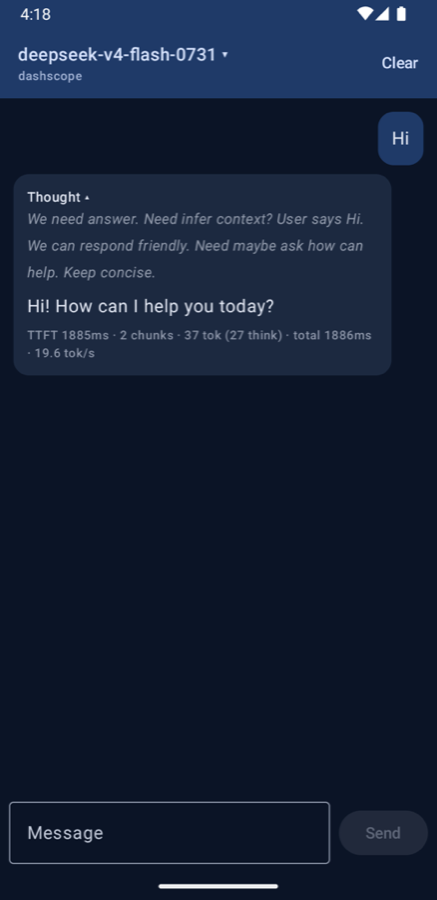
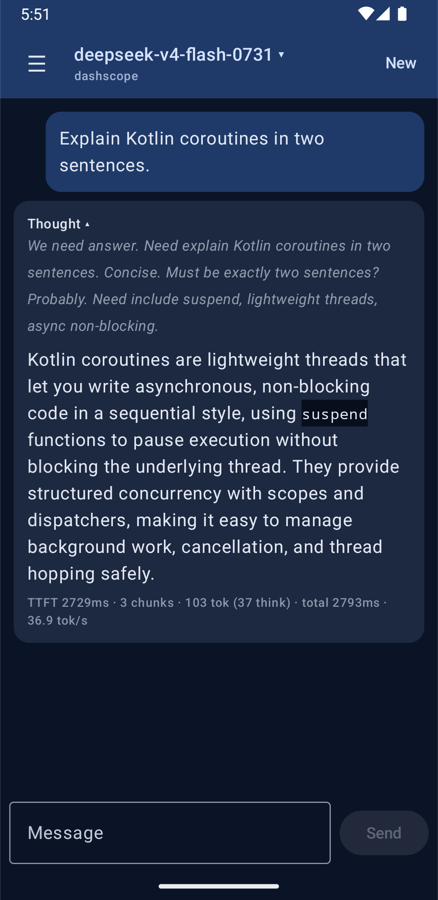
Add chat history demo GIF and refresh README screenshots

diff --git a/README.md b/README.md
@@ -19,11 +19,9 @@ A Jetpack Compose chat client for experimenting with **LLM token streaming** on 
 It talks to any OpenAI-compatible gateway (`/v1/chat/completions` with `stream: true`)
 and renders the reply as it arrives: reasoning tokens and answer tokens appear separately.
 
-<p>
-  <img src="docs/demo.gif" width="300" alt="Recording of a reply streaming in: a Thinking block, then a bold intro, bullet points and a Kotlin code block with a Copy button">
-  &nbsp;
-  <img src="docs/screenshot.png" width="300" alt="Chat screen in the navy dark theme showing a reasoning block, a streamed answer, and a stats line with TTFT, token count and tok/s">
-</p>
+| Streaming | Chat history | Dark theme |
+| :---: | :---: | :---: |
+| <img src="docs/demo.gif" width="240" alt="Recording of a reply streaming in: a Thinking block, then a bold intro, bullet points and a Kotlin code block with a Copy button"> | <img src="docs/sessions.gif" width="240" alt="Recording of the chat drawer: switching to a saved chat, starting a new chat, and the new chat appearing at the top of the list"> | <img src="docs/screenshot.png" width="240" alt="Chat screen in the navy dark theme showing a reasoning block, a streamed answer, and a stats line"> |
 
 ## Features
 
@@ -35,8 +33,9 @@ and renders the reply as it arrives: reasoning tokens and answer tokens appear s
   and fenced code blocks with a language label, horizontal scrolling and a Copy button.
   Partial syntax mid-stream is handled: an unclosed fence renders as an open code block.
 - Shows stats under each reply: time to first token, number of UI updates, completion and reasoning tokens, total time, tok/s.
-- Saves chats on the device (Room). A drawer lists them newest first, titled after the first
-  message; each chat remembers its model, and the latest one reopens on launch.
+- Saves chats on the device (Room). The ☰ drawer lists them newest first, titled after the first
+  message; tap to reopen, ✕ to delete (with confirmation), **New** to start another. Each chat
+  remembers its model, and the latest one reopens on launch.
   Stopped or interrupted replies are saved with the text received so far.
 - Loads the model picker from `/v1/models`, grouped by provider (the `provider/` prefix of the id). Embedding models are hidden.
 
